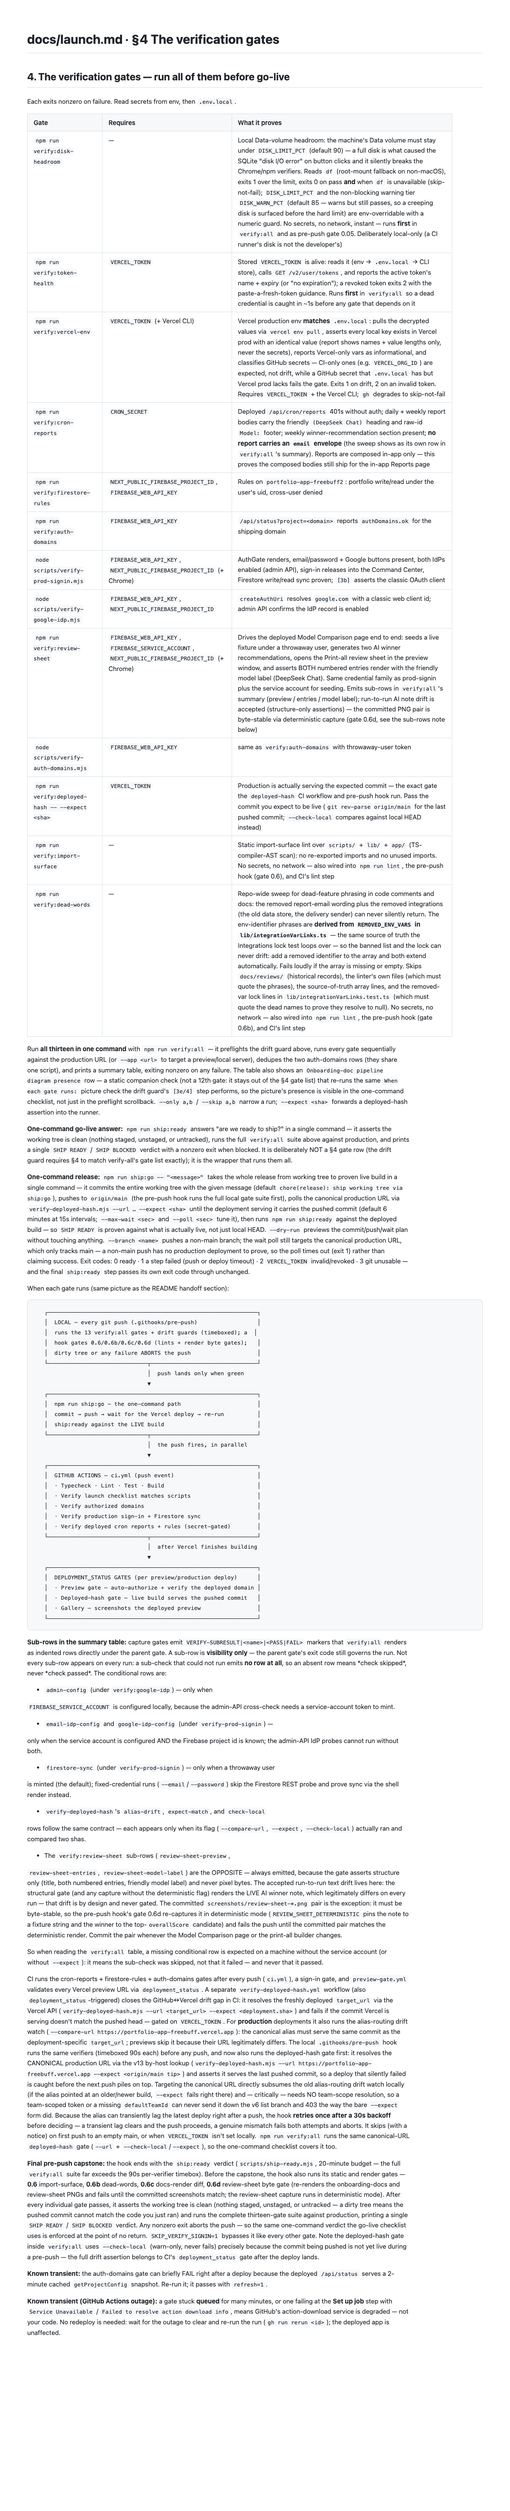
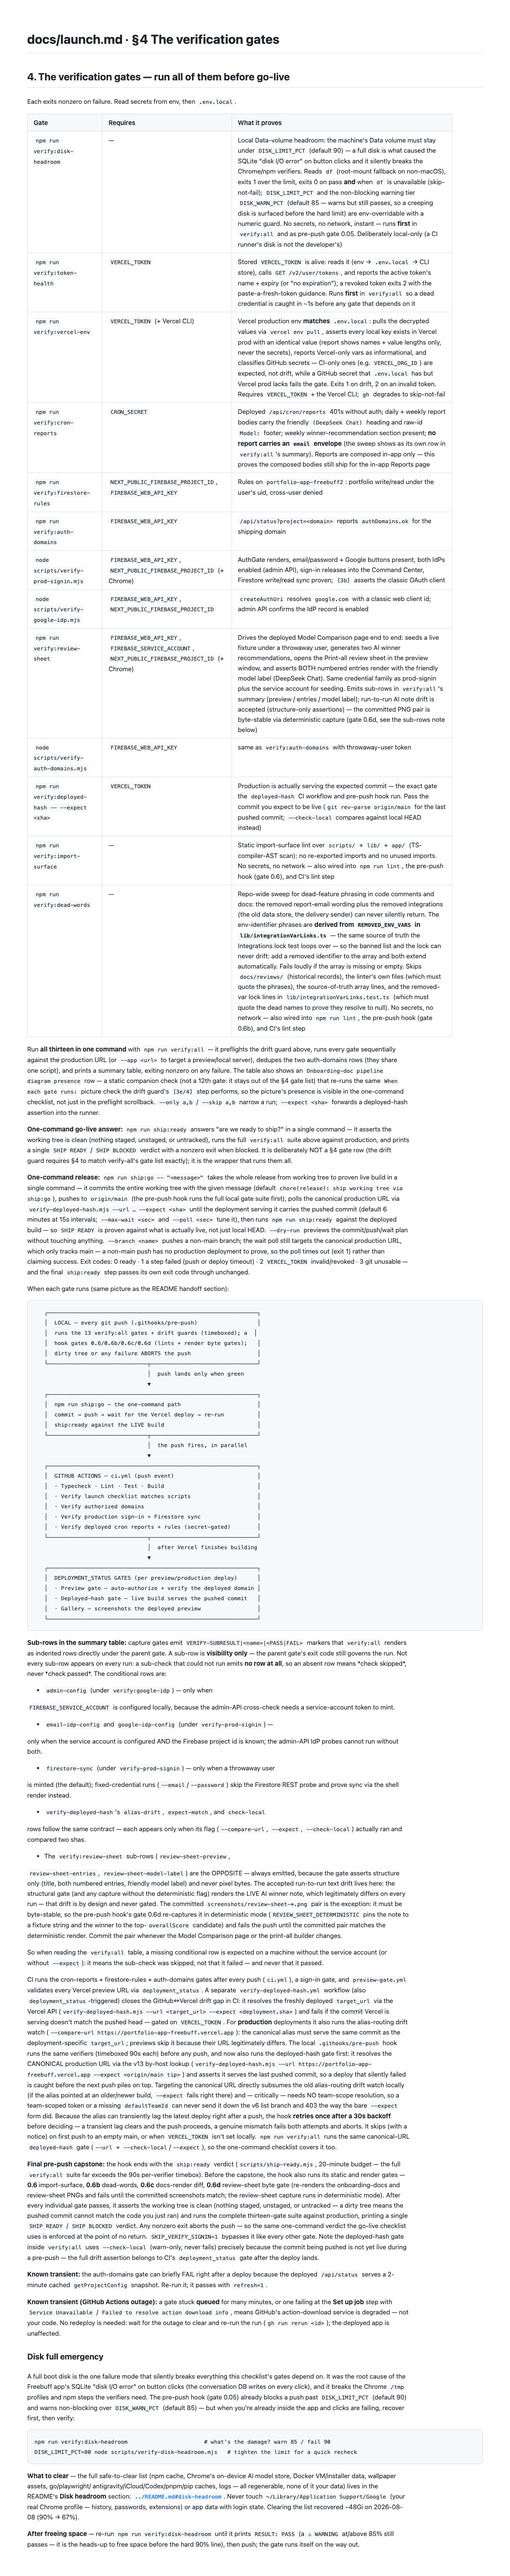
docs(launch): add Disk full emergency recovery section to the checklist
Point §4's operational steps at the README's safe-to-clear list and the
verify:disk-headroom one-liner, so a full disk (the SQLite I/O-error root
cause) is recoverable from the checklist itself. Also fix the stale "11
verification gates" intro reference to 13, and widen the docs-PNG dimension
band (6000 → 6500) since §4 now renders ~6050 tall.

Generated with Codebuff 🤖

diff --git a/scripts/capture-docs-dimensions.test.ts b/scripts/capture-docs-dimensions.test.ts
@@ -16,9 +16,9 @@ import { describe, expect, it } from 'vitest';
 // degrade. This suite guards against that two ways:
 //
 //   1. The COMMITTED PNGs are parsed (pure, no Chrome, always runs): each must
-//      be a real PNG whose IHDR says width 1200 and height within [2000, 6000]
-//      (current renders are 3724 and 4694 tall — the band leaves headroom for
-//      content growth while far below the 800px broken-page floor).
+//      be a real PNG whose IHDR says width 1200 and height within [2000, 6500]
+//      (current renders are ~5900 and ~6050 tall — the band leaves headroom
+//      for content growth while far below the 800px broken-page floor).
 //   2. The FRESH renders are re-generated by re-running capture-docs.mjs into
 //      a throwaway temp dir and checked against the same bounds, so a future
 //      renderer change that produces a broken/tiny page is caught in CI even
@@ -40,7 +40,11 @@ const EXPECTED = [
 
 const WIDTH = 1200;
 const MIN_HEIGHT = 2000;
-const MAX_HEIGHT = 6000;
+// 6500 not 6000: launch.md §4 carries the Disk full emergency subsection
+// (added 2026-08-08) and renders ~6050 tall; the band's real job is catching
+// the 800px MIN_H broken-page collapse, so it tracks content growth while
+// staying far above the floor and far below any pathological render.
+const MAX_HEIGHT = 6500;
 
 // ── Dependency-free PNG IHDR parser ─────────────────────────────────────────
 // Width/height live in the IHDR chunk at fixed offsets after the 8-byte

diff --git a/docs/launch.md b/docs/launch.md
@@ -6,7 +6,7 @@ prove it works. Written after the go-live pass on **2026-08-05/06** so the
 next launch (or a new maintainer) doesn't re-derive any of it.
 
 > **New here?** Start with the README's **Handoff — read this first** section
-> (`../README.md#handoff--read-this-first`) — architecture, the 11
+> (`../README.md#handoff--read-this-first`) — architecture, the 13
 > verification gates, and the three-secret-store reality in one page. This
 > checklist is the operational go-live companion to that overview.
 
@@ -258,6 +258,36 @@ minutes, or one failing at the **Set up job** step with `Service Unavailable`
 service is degraded — not your code. No redeploy is needed: wait for the
 outage to clear and re-run the run (`gh run rerun <id>`); the deployed app is
 unaffected.
+
+### Disk full emergency
+
+A full boot disk is the one failure mode that silently breaks everything this
+checklist's gates depend on. It was the root cause of the Freebuff app's
+SQLite "disk I/O error" on button clicks (the conversation DB writes on every
+click), and it breaks the Chrome `/tmp` profiles and npm steps the verifiers
+need. The pre-push hook (gate 0.05) already blocks a push past `DISK_LIMIT_PCT`
+(default 90) and warns non-blocking over `DISK_WARN_PCT` (default 85) — but
+when you're already inside the app and clicks are failing, recover first, then
+verify:
+
+```bash
+npm run verify:disk-headroom                       # what's the damage? warn 85 / fail 90
+DISK_LIMIT_PCT=80 node scripts/verify-disk-headroom.mjs   # tighten the limit for a quick recheck
+```
+
+**What to clear** — the full safe-to-clear list (npm cache, Chrome's on-device
+AI model store, Docker VM/installer data, wallpaper assets, go/playwright/
+antigravity/iCloud/Codex/pnpm/pip caches, logs — all regenerable, none of it
+your data) lives in the README's **Disk headroom** section:
+[`../README.md#disk-headroom`](../README.md#disk-headroom). Never touch
+`~/Library/Application Support/Google` (your real Chrome profile — history,
+passwords, extensions) or app data with login state. Clearing the list
+recovered ~48Gi on 2026-08-08 (90% → 67%).
+
+**After freeing space** — re-run `npm run verify:disk-headroom` until it prints
+`RESULT: PASS` (a `⚠ WARNING` at/above 85% still passes — it is the heads-up
+to free space before the hard 90% line), then push; the gate runs itself on
+the way out.
 
 ## 5. Go-live checklist (order matters)
 
